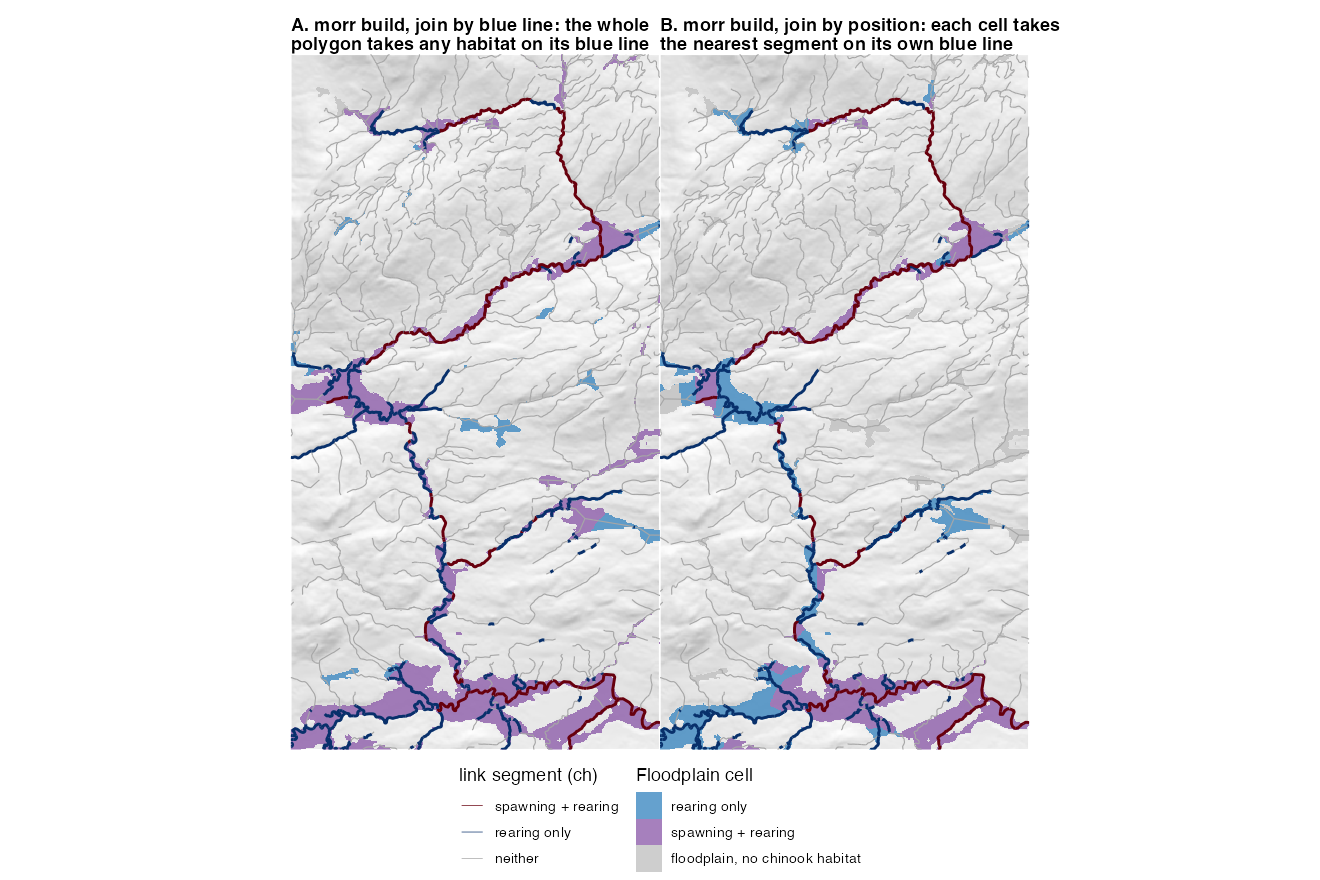
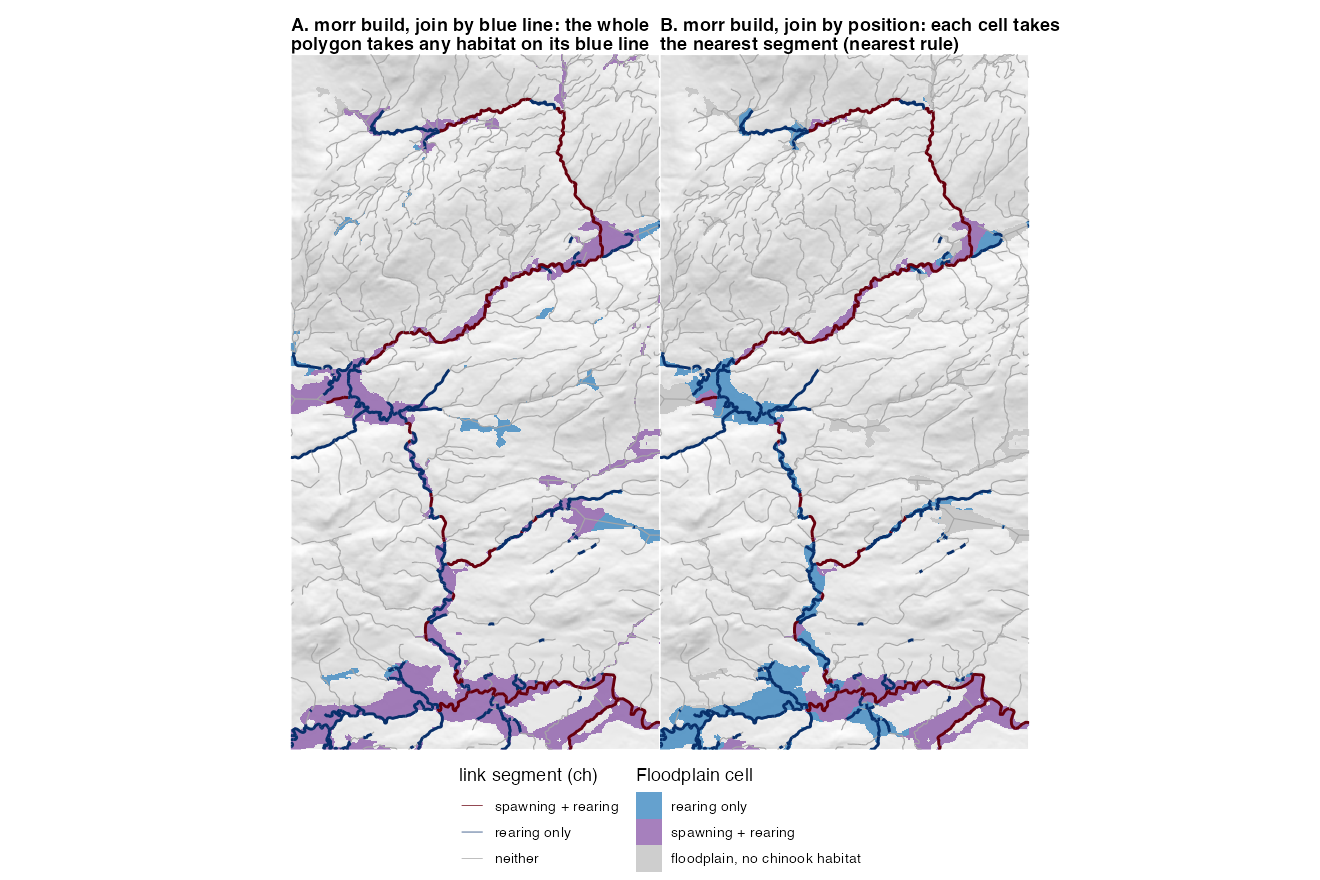
#104 shared ground decided: nearest claiming segment for areas, any as a view
A floodplain cell several blue lines claim (78.6% of MORR's order >= 2
floodplain) now has two rules in habitat_join-demo.R: nearest (the nearest
segment among the claiming blue lines; one owner per cell, so per-reach areas
add up to the floodplain; ties to the lowest blue_line_key) as the default for
areas, and any (habitat if any claimer says so) as the "connected to habitat"
view. Decided by the user 2026-10-11.

morr build, arm 2: spawning 11,474 ha and rearing 19,525 ha under nearest,
16,626 and 23,255 under any. Only claiming blue lines compete: the nearest
segment anywhere is on a non-claiming blue line for 26.3% of cells, 99.9% of
them order 1, which the floor leaves out. Figure 3 shows the two rules.

Claude-Session: https://claude.ai/code/session_0186ZefY3qMPiW8pwnwwMuxW

diff --git a/scripts/floodplain_lcc/logs/20261011_habitat_join-demo_morr.md b/scripts/floodplain_lcc/logs/20261011_habitat_join-demo_morr.md
@@ -1,8 +1,8 @@
 # Habitat join on the attributed floodplain, MORR ch (#104)
 
-Produced by `scripts/floodplain_lcc/habitat_join-demo.R`, 2026-10-11 09:20 PDT. Floodplains: the probe's arm 2 (order >= 2) and arm 3 (order >= 3), `co_ff04` flood surface, attributed by `blue_line_key` (arm 3 also by segment), with flooded 0.6.0 and terra 1.9.50 (from the arms' `timing.json`). Habitat: link builds `fresh` and `morr`, `streams_habitat_ch`.
+Produced by `scripts/floodplain_lcc/habitat_join-demo.R`, 2026-10-11 09:43 PDT. Floodplains: the probe's arm 2 (order >= 2) and arm 3 (order >= 3), `co_ff04` flood surface, attributed by `blue_line_key` (arm 3 also by segment), with flooded 0.6.0 and terra 1.9.50 (from the arms' `timing.json`). Habitat: link builds `fresh` and `morr`, `streams_habitat_ch`.
 
-Joins: **blk**, a blue line's whole floodplain takes any habitat on that blue line; **range**, each floodplain cell takes the nearest segment (straight-line) on its own blue line; **segment**, segment-grain attribution. A cell several blue lines' floodplains share is habitat if any of them says so.
+Joins: **blk**, a blue line's whole floodplain takes any habitat on that blue line; **range**, each floodplain cell takes the nearest segment (straight-line) on its own blue line; **segment**, segment-grain attribution. A cell several blue lines' floodplains share is resolved by **nearest** (the nearest of those blue lines' nearest segments; one owner per cell; the default for areas) or **any** (habitat if any of them says so; the connected-to-habitat view).
 
 ## Integrity: every floodplain cell attributed, nothing outside it
 
@@ -27,47 +27,61 @@ arm3_seg           404716           404716       0     0
 ## Arm 2: spawning vs rearing floodplain, ha
 
 ```
-  join build spawning_ha rearing_ha both_ha spawn_only_ha rear_only_ha
-   blk fresh     39507.4    43095.7 39507.4          0.00      3588.28
- range fresh     16321.0    20335.7 16321.0          0.00      4014.63
-   blk  morr     39507.4    43434.1 39507.4          0.00      3926.75
- range  morr     16626.4    23255.2 16323.3        303.09      6931.81
- blk_without_segments
-                   NA
-                    0
-                   NA
-                    0
+           join build spawning_ha rearing_ha both_ha spawn_only_ha rear_only_ha
+            blk fresh     39507.4    43095.7 39507.4        0.0000      3588.28
+ range, nearest fresh     11419.5    14765.9 11419.5        0.0000      3346.31
+     range, any fresh     16321.0    20335.7 16321.0        0.0000      4014.63
+            blk  morr     39507.4    43434.1 39507.4        0.0000      3926.75
+ range, nearest  morr     11474.3    19524.5 11425.4       48.8945      8099.17
+     range, any  morr     16626.4    23255.2 16323.3      303.0902      6931.81
+ blk_without_segments tied_cells
+                   NA         NA
+                    0       1878
+                    0         NA
+                   NA         NA
+                    0       1878
+                    0         NA
 ```
 
 ## Arm 3: range join vs segment grain, ha and per-cell agreement
 
 ```
-                join build spawning_ha rearing_ha both_ha spawn_only_ha
-   range (arm 3 blk) fresh     14166.3    16067.6 14166.3         0.000
- segment (arm 3 seg) fresh     19094.4    21367.3 19094.4         0.000
-   range (arm 3 blk)  morr     14471.6    18309.2 14168.6       302.998
- segment (arm 3 seg)  morr     19333.2    22048.6 19101.6       231.601
+                       join build spawning_ha rearing_ha both_ha spawn_only_ha
+ range, nearest (arm 3 blk) fresh     11770.1    13347.9 11770.1        0.0000
+     range, any (arm 3 blk) fresh     14166.3    16067.6 14166.3        0.0000
+        segment (arm 3 seg) fresh     19094.4    21367.3 19094.4        0.0000
+ range, nearest (arm 3 blk)  morr     11824.7    16759.2 11775.8       48.8945
+     range, any (arm 3 blk)  morr     14471.6    18309.2 14168.6      302.9976
+        segment (arm 3 seg)  morr     19333.2    22048.6 19101.6      231.6006
  rear_only_ha seg_key_match agree_spawning agree_rearing
+      1577.77            NA       0.804265      0.783747
       1901.33            NA       0.866805      0.854510
       2272.85      1.000000             NA            NA
+      4983.44            NA       0.799348      0.858180
       4140.66            NA       0.868579      0.898781
       2947.00      0.999855             NA            NA
 ```
 
-## Build diff, range join on arm 2
+## Build diff, range join on arm 2, under each rule
 
 ```
- rearing_fresh_ha rearing_morr_ha morr_only_ha fresh_only_ha
-          20335.7         23255.2       2919.5             0
+    rule rearing_fresh_ha rearing_morr_ha morr_only_ha fresh_only_ha
+ nearest          14765.9         19524.5      4758.69             0
+     any          20335.7         23255.2      2919.50             0
  spawning_changed_ha
-             305.405
+             54.7285
+            305.4053
 ```
 
 Distance from the cells whose rearing changed to the nearest segment whose rearing changed:
 
 ```
- changed_segments unmatched_morr_segments morr_only_cells median_m   max_m
-             1696                       2           31527  91.3841 1012.35
+    rule changed_segments unmatched_morr_segments morr_only_cells median_m
+ nearest             1696                       2           51388  64.3231
+     any             1696                       2           31527  91.3841
+    max_m
+  966.832
+ 1012.355
 ```
 
 ## Shared ground: floodplain cells by number of blue lines claiming them (arm 2)
@@ -77,6 +91,15 @@ Distance from the cells whose rearing changed to the nearest segment whose reari
  517087               0.786299     3.28213
 ```
 
-Figures: `20261011_habitat_join-demo_morr_fig1.png` (morr build, blk vs range, blue line 360880257), `20261011_habitat_join-demo_morr_fig2.png` (fresh vs morr rearing).
+Each cell's nearest segment anywhere in the `morr` build, by the blue line it is on:
 
-Run time: 88 s.
+```
+ share_nearest_on_claiming_blk share_nearest_on_blk_without_floodplain
+                      0.737201                                0.255443
+ share_nearest_on_nonclaiming_blk_in_floodplain order1_share_of_nonclaiming
+                                      0.0073566                    0.998697
+```
+
+Figures: `20261011_habitat_join-demo_morr_fig1.png` (morr build, blk vs range under the nearest rule, blue line 360880257), `20261011_habitat_join-demo_morr_fig2.png` (fresh vs morr rearing, any rule), `20261011_habitat_join-demo_morr_fig3.png` (morr build, nearest vs any).
+
+Run time: 146 s.

diff --git a/research/whole_fwa_floodplain.md b/research/whole_fwa_floodplain.md
@@ -295,29 +295,45 @@ floodplain match the step 2 replay).
 - the flood-surface artefact (below).
 
 **The habitat join works on the blue-line floodplain (demonstrated 2026-10-11, MORR, chinook).**
-Evidence: `scripts/floodplain_lcc/logs/20261011_habitat_join-demo_morr.md` and its two figures,
+Evidence: `scripts/floodplain_lcc/logs/20261011_habitat_join-demo_morr.md` and its three figures,
 from `habitat_join-demo.R`. link's chinook spawning and rearing, from two builds (`fresh`, `morr`),
-were joined to arm 2's floodplain as attributed by `blue_line_key`, with no re-delineation (90 s).
+were joined to arm 2's floodplain as attributed by `blue_line_key`, with no re-delineation (146 s
+for both rules, both builds and the arm 3 comparison).
 - **Integrity.** All 517,087 floodplain cells are attributed, with none missing and none outside
   it. 99% of spawning km sits on a blue line with a floodplain polygon in both builds, and 98.9%
   (`fresh`) and 93.2% (`morr`) of rearing km. The rest (80 km of habitat in `morr`) is all on
   order-1 blue lines, which the floor leaves out. Segment keys match 100% (`fresh`) and 99.99% (`morr`).
 - **Join by position, not by blue line.** Joined by blue line, a polygon takes any habitat on its
   blue line, and 39,507 ha (82% of the floodplain) reads as chinook spawning floodplain. Joined by
-  position (each cell takes the nearest segment, by straight-line distance, on its own blue line):
-  spawning 16,626 ha, rearing 23,255 ha, rearing only 6,932 ha (`morr` build). This stands in for
-  the range join on route measure above; the two can differ across a meander neck. It is cheap.
-- **Against segment-grain attribution** (arm 3, which has both): 85–90% of cells agree.
-  Segment grain maps more spawning floodplain (19,333 vs 14,472 ha), because it counts a cell for
-  every segment within the VCA thresholds, not only the nearest.
-- **A new habitat build is a new join.** `morr` adds 2,920 ha of rearing floodplain over `fresh`
-  and removes none; spawning differs by 305 ha. The geometry did not change.
-- **Open choices** (the user's):
-  - **Shared ground.** 78.6% of arm 2's floodplain cells are claimed by two or more blue lines (mean
-    3.28). The demo counts a cell as habitat if any of them says so, so a change on one blue line
-    reaches into its neighbours' valleys: the rearing added by `morr` sits a median 91 m and at most
-    1,012 m from the segments that changed. The alternative is the nearest segment overall.
-  - **Flood level.** ff04, the level the arms were run at, against chinook's headline ff06.
+  position, each cell takes the nearest segment (straight-line distance) on its own blue line.
+  This stands in for the range join on route measure above; the two can differ across a meander
+  neck. It is cheap.
+- **Shared ground: decided 2026-10-11 (user).** 78.6% of arm 2's floodplain cells are claimed by
+  two or more blue lines (mean 3.28), so the position join needs a rule for them:
+  - **nearest** (the default for areas): the cell takes the nearest of its claiming blue lines'
+    nearest segments, so each cell has one owner and per-reach areas add up to the floodplain.
+    1,878 cells (0.4%) tie and go to the lowest `blue_line_key`. Only the claiming blue lines compete.
+    The nearest segment anywhere is on a non-claiming blue line for 26.3% of cells (25.5% on a blue
+    line with no floodplain at all), and 99.9% of those nearer segments are order 1, which the floor
+    leaves out.
+  - **any** (the "connected to habitat" view): the cell is habitat if any claiming blue line's
+    nearest segment says so.
+
+  | `morr` build, arm 2, ha | spawning | rearing | rearing only |
+  |---|---|---|---|
+  | by blue line | 39,507 | 43,434 | 3,927 |
+  | by position, nearest | 11,474 | 19,525 | 8,099 |
+  | by position, any | 16,626 | 23,255 | 6,932 |
+- **Against segment-grain attribution** (arm 3, which has both): 78–86% of cells agree under
+  nearest, 85–90% under any. Segment grain maps the most spawning floodplain (19,333 ha, `morr`),
+  because it counts a cell for every segment within the VCA thresholds.
+- **A new habitat build is a new join.** `morr` adds rearing floodplain over `fresh` and removes
+  none: 4,759 ha under nearest, 2,920 ha under any (fewer, because under any many of those cells
+  were already rearing through a neighbouring blue line). Under any, the added rearing reaches a
+  median 91 m and at most 1,012 m from the segments that changed (nearest: 64 m, 967 m). The
+  geometry did not change.
+- **Flood level.** The demo uses ff04, the level the arms were run at; chinook's headline is ff06.
+  Accepted for the demonstration (user, 2026-10-11).
 
 **Considered and not taken: order ≥ 3 (Reading B).** It is cheaper (19.9 min), keeps segment
 grain, and only extends today's items (1.6% move). But it leaves 5–21% of modelled habitat with
